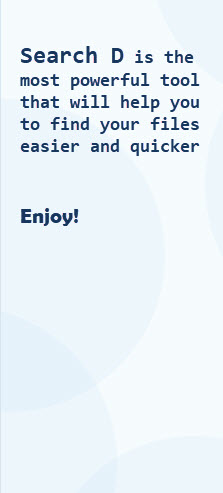
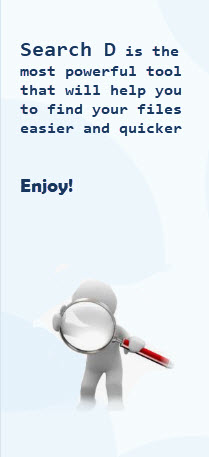
adding some missing get methods adding the message error method adding an image improved

Changed region(s): [[0.0861, 0.0919, 0.89, 0.337], [0.2297, 0.6127, 0.8325, 0.8884], [0.0861, 0.3676, 0.3732, 0.4595]]

diff --git a/src/main/java/com/foundation/search/view/ParametersPanel.java b/src/main/java/com/foundation/search/view/ParametersPanel.java
@@ -386,16 +386,16 @@ public class ParametersPanel extends JPanel implements ItemListener {
         readOnly = new JCheckBox("Include Read-Only Files");
         readOnly.setMnemonic(KeyEvent.VK_D);
         readOnly.setSelected(false);
-        onlyFiles = new JCheckBox("Include Files Only");
+        onlyFiles = new JCheckBox("Include Directories Only");
         onlyFiles.setMnemonic(KeyEvent.VK_D);
         onlyFiles.setSelected(false);
-        byCreationDate = new JCheckBox("Files created after date");
+        byCreationDate = new JCheckBox("Files created at");
         byCreationDate.setMnemonic(KeyEvent.VK_D);
         byCreationDate.setSelected(false);
-        byModificationDate = new JCheckBox("Files modified after date");
+        byModificationDate = new JCheckBox("Files modified at");
         byModificationDate.setMnemonic(KeyEvent.VK_D);
         byModificationDate.setSelected(false);
-        byLastDayAccessed = new JCheckBox("Files accessed after date");
+        byLastDayAccessed = new JCheckBox("Files accessed at");
         byLastDayAccessed.setMnemonic(KeyEvent.VK_D);
         byLastDayAccessed.setSelected(false);
 
@@ -625,5 +625,23 @@ public class ParametersPanel extends JPanel implements ItemListener {
      */
     public Date getLastAccessDate(){
         return lastAccessDateSelected;
+    }
+
+    /**
+     * This method returns the Owner inserted to filter the search by owner
+     *
+     * @return owner
+     */
+    public String getOwner(){
+        return ownerInput.getText();
+    }
+
+    /**
+     * This method returns the content inserted to filter the search by content
+     *
+     * @return owner
+     */
+    public String getContent(){
+        return contentInput.getText();
     }
 }

diff --git a/src/main/java/com/foundation/search/view/MainPanel.java b/src/main/java/com/foundation/search/view/MainPanel.java
@@ -15,6 +15,7 @@ package com.foundation.search.view;
 
 import javax.swing.JPanel;
 import javax.swing.BoxLayout;
+import javax.swing.JOptionPane;
 
 /**
  * This class contains the parameters panel and results panel
@@ -78,5 +79,15 @@ public class MainPanel extends JPanel {
      */
     public ResultsPanel getResultsPanel(){
         return result;
+    }
+
+    /**
+     * This method allows to setup an error message
+     *
+     * @param message  the String message to show
+     */
+    public static void errorMessage(String message){
+        JOptionPane.showMessageDialog(null, message, "Error", JOptionPane.ERROR_MESSAGE);
+
     }
 }
